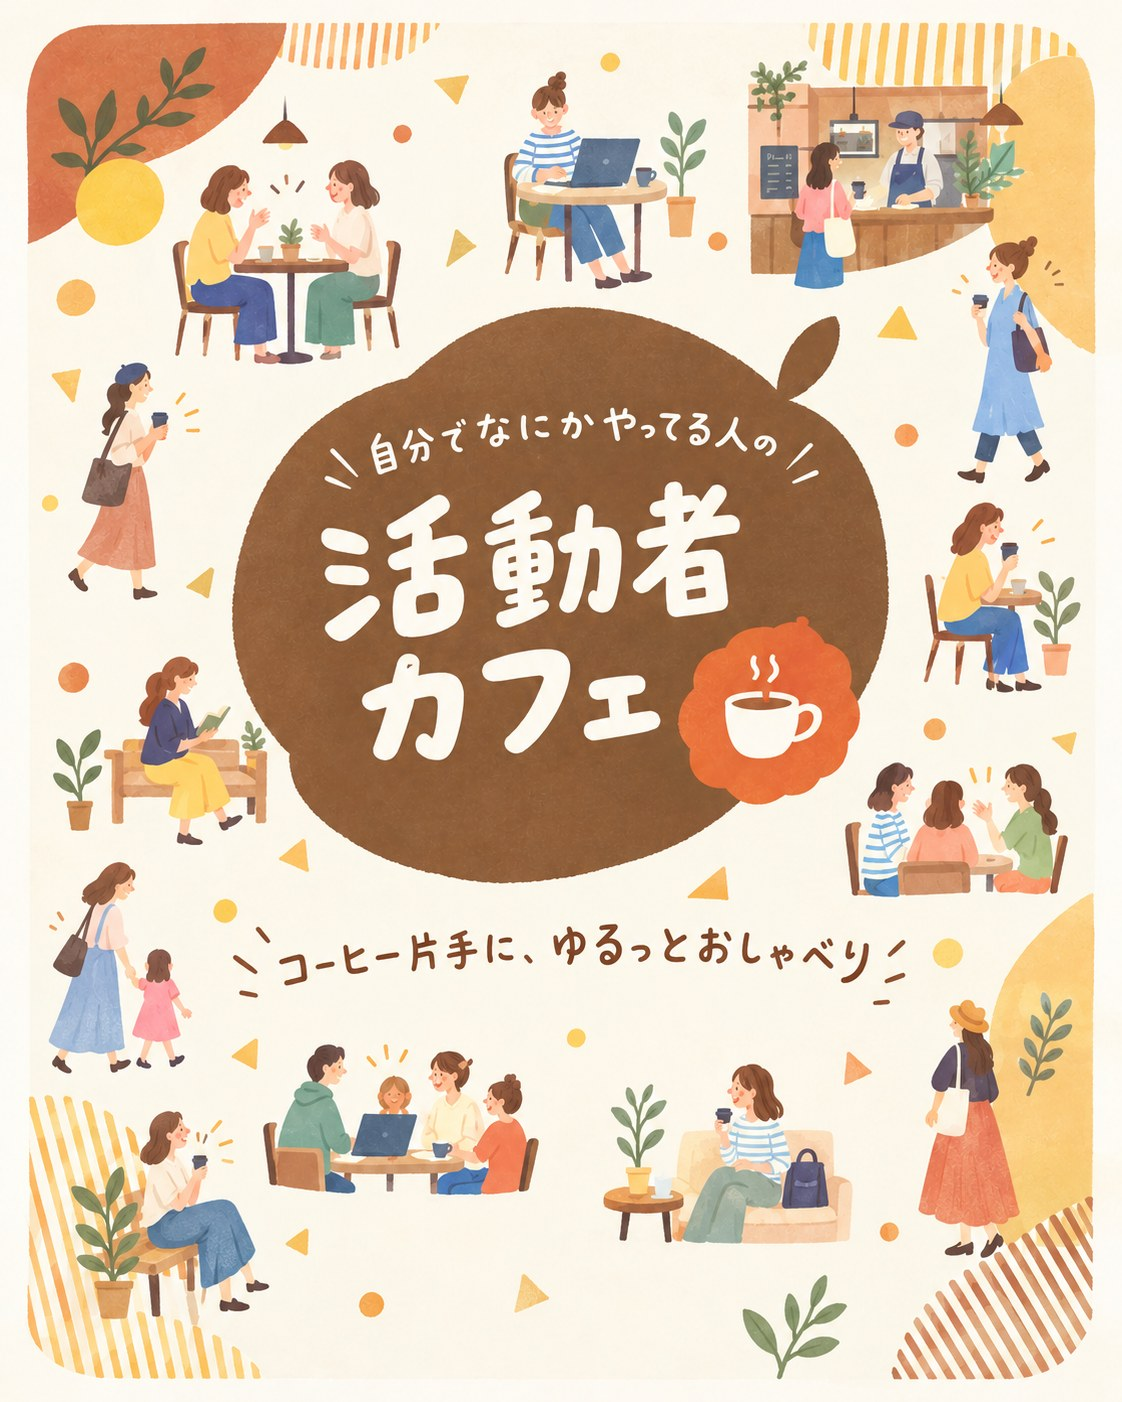
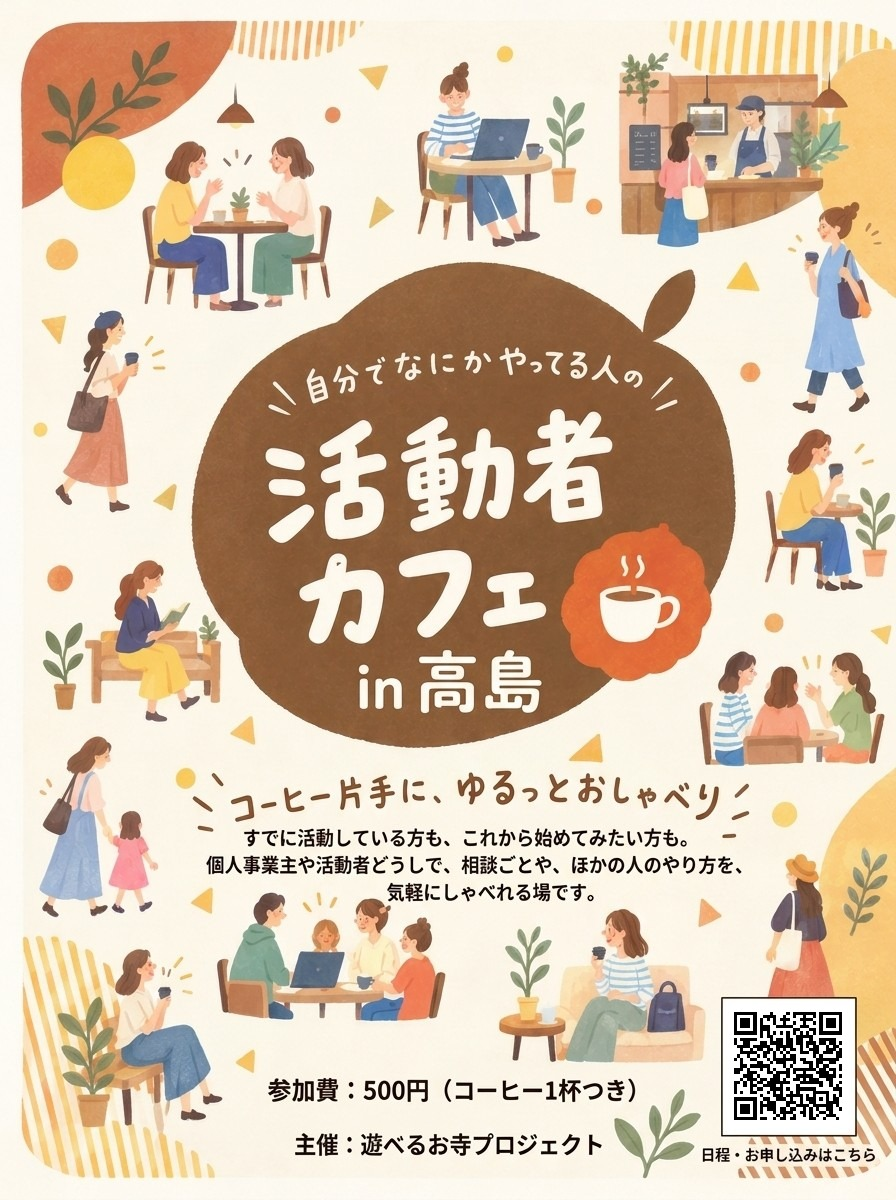
活動者カフェを「活動者カフェ in 高島」にし、置きチラシの画像と説明文に差し替えた

diff --git a/events/index.html b/events/index.html
@@ -452,7 +452,7 @@
 
   </div>
 </article>
-<!-- 活動者カフェ 2026年10月30日 -->
+<!-- 活動者カフェ in 高島 2026年10月30日 -->
 <article class="event" id="katsudousha-cafe-2026-1030">
   <div class="event-wrap">
 
@@ -460,7 +460,7 @@
       <a href="/images/events/katsudousha-cafe-20261030.jpg" target="_blank" rel="noopener">
         <img
           src="/images/events/katsudousha-cafe-20261030.jpg"
-          alt="2026年10月30日開催 活動者カフェの案内画像"
+          alt="活動者カフェ in 高島の案内チラシ"
           loading="lazy"
         >
       </a>
@@ -468,7 +468,7 @@
 
     <div class="event-body">
       <h3>
-        活動者カフェ
+        活動者カフェ in 高島
         <span class="badge">初開催</span>
       </h3>
 
@@ -480,12 +480,12 @@
       </p>
 
       <p>
-        個人事業主や、自分でイベントや活動をしている人が、<br>
-        コーヒーを飲みながら気軽にしゃべる会です。
+        すでに活動している方も、これから始めてみたい方も。<br>
+        個人事業主や活動者どうしで、相談ごとや、ほかの人のやり方を、気軽にしゃべれる場です。
       </p>
 
       <p>
-        参加費：500円（コーヒー1杯つき。2杯目からは100円）
+        参加費：500円（コーヒー1杯つき）
       </p>
 
       <div class="event-cta">
